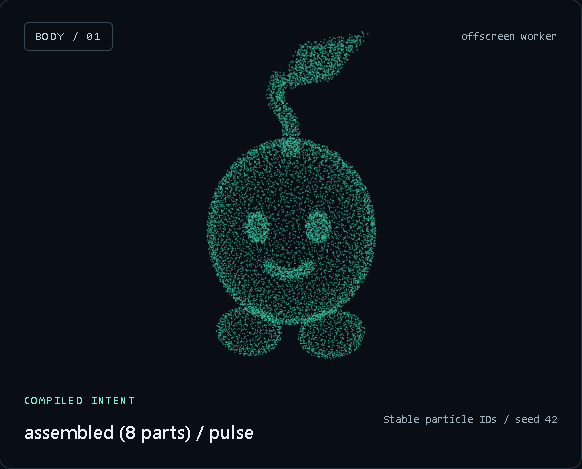
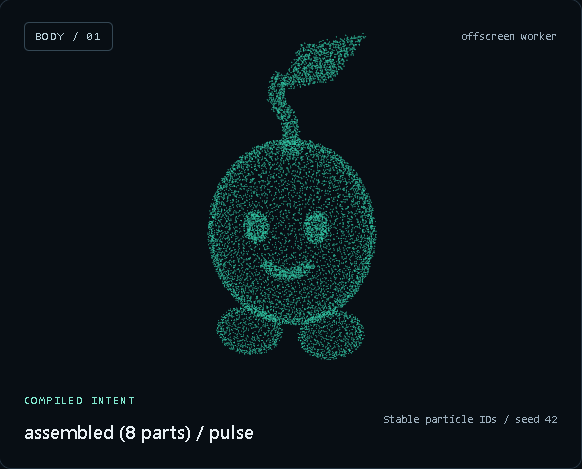
fix: use supported planner sandbox and verify live swarm expressions

Changed region(s): [[0.3402, 0.0597, 0.6495, 0.7761]]

diff --git a/docs/expression-planner.md b/docs/expression-planner.md
@@ -1,33 +1,42 @@
 # Contextual expression planner
 
-Run `fisch run` beside your existing Codex or Claude pane. Fisch keeps immediate status reflexes and runs a separate, noninteractive planner process for context-sensitive expressions. The original agent receives no prompt or tool instruction. No browser or interactive agent window is opened.
+Run `fisch run` beside your existing Codex or Claude pane. Fisch observes agent status and recent terminal context automatically; the main agent needs no Fisch tool calls. No browser or interactive agent window opens.
 
-Default backend selection follows the attached agent: `codex exec` or `claude -p`. It uses the CLI's existing authentication, with no separate API key required. This is a new background inference process, not access to the main agent's hidden reasoning or reuse of its in-memory conversation. It consumes provider usage under the CLI account and can incur charges according to that account's plan.
+The native backend follows the attached agent: a persistent `codex app-server --stdio` process, or `claude -p`. Both use existing CLI authentication. This is separate inference, not access to the main agent's hidden reasoning or in-memory conversation. Provider usage and account charges still apply. An external API is optional.
 
-## Data and timing
+## Context and timing
 
-Fisch reads up to 32 recent unwrapped terminal lines from the selected agent pane, clips the cleaned excerpt to 6,000 characters, and includes the current activity status. It does not read transcript files or another pane. Common credential patterns are redacted, but arbitrary terminal output can still contain sensitive data. Context is sent through process stdin, not command arguments, and is not written by Fisch to logs or conversation files. CLI/provider behavior and retention policies still apply.
+Fisch reads up to 32 recent unwrapped lines from the selected agent pane, clipped to 6,000 characters. Common credentials are redacted, but arbitrary terminal output can contain sensitive data. Context travels through process stdin rather than command arguments. Fisch does not save these excerpts to conversation files; CLI/provider retention policies still apply.
 
-Context is sampled at most every two seconds. Unchanged context creates no model call. Native planning also waits for a two-second quiet context window; changing terminal clocks are filtered. Native planner requests are spaced at least 30 seconds apart and time out after 45 seconds. The visible body continues rendering while inference runs. A status or captured context change aborts obsolete in-flight inference and queues the latest context; stale results cannot overwrite the current expression. Ordinary terminal text updates do not reset an already admitted plan. A real agent status change still cancels its motion and applies the new status reflex immediately. During working, completion of a plan does not force another model request.
+Context is sampled at most every two seconds. Native planning uses a 750 ms quiet window, at least eight seconds between requests and a 45-second deadline. Terminal updates coalesce into the latest queued context instead of repeatedly killing inference. Working-to-idle/done transitions accept the same turn's pending result. New work, interruption and manual control invalidate obsolete jobs. Rendering continues throughout.
 
-The model returns a bounded JSON expression: at most four sequential beats, each containing up to three parallel morph/assembly/flow/shape-quality primitives. Beat durations are 200–1,500 ms. Shapes and fields come from the shared capability manifest. A small planner guard and the existing compiler validate the result before admission. Invalid JSON, conflicting properties, refusal, missing CLI/login and timeouts preserve the reflex layer. Plans illustrate communicative context, not evidence of private emotions.
+Codex keeps one process warm with fresh ephemeral threads. Generation still takes seconds: a live signed-in call with the current schema took about 13 seconds. Local repertoire playback supplies immediate motion while the model runs. Keeping a process warm does not guarantee faster generation.
+
+## Geometry and repertoire
+
+Model output contains a short concept label and a bounded AST with at least one assembly. Up to four sequential beats may each contain three parallel primitives, lasting 200–1,500 ms per beat. The prompt asks for coherent silhouettes, independent part motion and concepts different from recent history. Schema guards and the compiler reject invalid geometry or property conflicts. Failure preserves the current body or bootstrap reflex. See [swarm geometry](swarm-geometry.md).
+
+Up to eight distinct model-authored compositions are retained locally. Idle/done rotates them every 12 seconds; working rotates them every 18 seconds. These are local engine submissions, not fresh AI decisions. Ordinary working/idle transitions preserve geometry and adjust brightness instead of resetting to sphere/cloud/wall. An empty repertoire uses status reflexes until the first valid assembly arrives.
+
+The ignored `.runtime/repertoire.json` stores bounded geometry ASTs and concept labels, without terminal excerpts or credentials. Restarting restores these forms immediately. Set `FISCH_REPERTOIRE_CACHE=off` to keep only an in-memory repertoire. Geometry fingerprints deduplicate near-identical forms; semantic originality is not guaranteed.
+
+Unchanged idle/done context becomes eligible for a fresh model plan after 60 seconds, including after failures. This consumes provider inference while idle. Manual expressions/cancellation pause automatic activity until the next status change or ten seconds before it can resume. Closing Fisch stops inference and replay.
 
 ## Configuration
 
-No configuration is needed for native CLI planning. Optional settings are read from the checkout's ignored `.env` file, with environment variables taking precedence:
+No settings are needed for native CLI planning. Optional settings come from the checkout's ignored `.env`, with environment variables taking precedence:
 
 ```dotenv
 FISCH_PLANNER_BACKEND=codex
 # Alternatives: claude, api, off
-# Optional model override; otherwise the CLI selects its default model.
 # FISCH_PLANNER_MODEL=your-model
-# Optional executable or JavaScript CLI path, without shell arguments.
 # FISCH_PLANNER_COMMAND=/absolute/path/to/codex
+# FISCH_REPERTOIRE_CACHE=off
 ```
 
-`fisch status` includes planner backend, mode, attempts, applied plans, stale results discarded, a sanitized error code, the last admitted AST and its admission timestamp. The pane header and `bodySource` show whether the last automatic body program came from `reflex` or `planner`; admission is not a claim about how long it remained visible. `off` keeps automatic status reflexes without reading terminal context or starting an inference process. API credentials alone never switch the backend to API.
+`fisch status` reports attempts, fresh `applied` plans, discarded results, sanitized errors, the last AST/concept, repertoire size/play count and process/request counts. `bodySource` distinguishes `reflex`, `repertoire`, `planner` and manual control. Admission counters do not certify human recognition. Backend `off` retains status reflexes without reading context or starting inference. API credentials alone never select the API backend.
 
-Native Codex runs ephemeral, outside the repository in a temporary scratch directory, with user configuration ignored but its normal authentication retained. It uses read-only sandboxing and disables shell, apps, plugins, hooks, multi-agent, browser/computer and image features. It does not inherit custom user model providers from `config.toml`. Claude runs without built-in tools, external MCP configurations or session persistence and does not load settings sources. Neither path relaxes approvals or edits the main agent's configuration. These flags require compatible recent CLI versions; unsupported versions fall back to status reflexes.
+Codex runs outside the repository in a temporary scratch directory, with normal authentication/configuration retained. Configured MCP servers, shell, apps, plugins, hooks, multi-agent, browser/computer and image features are disabled. Threads are ephemeral, read-only and receive planner instructions instead of repository instructions. See the official [Codex app-server protocol](https://developers.openai.com/codex/app-server). Claude remains a separate tool-free, nonpersistent process per request, without external MCP configuration or settings sources. Neither path edits the main agent's configuration. Compatible recent CLI versions are required; failed inference leaves local animation running.
 
 ## Optional API backend
 
@@ -38,20 +47,8 @@ FISCH_PLANNER_URL=https://api.openai.com/v1/responses
 OPENAI_API_KEY=your-private-key
 ```
 
-Keep keys out of chat and Git. The optional transport uses the [Responses structured-output format](https://developers.openai.com/api/docs/guides/structured-outputs), with `store: false`. A compatible local Responses endpoint may use HTTP on localhost and omit a key. Other endpoints require HTTPS. `FISCH_PLANNER_API_KEY` supplies credentials for a custom endpoint; the OpenAI key is never automatically forwarded to another hostname. API requests have a four-second deadline and ten-second minimum spacing.
+Keep keys out of chat and Git. The transport uses [Responses structured output](https://developers.openai.com/api/docs/guides/structured-outputs) with `store: false`, a four-second deadline and five-second minimum spacing. Localhost endpoints may use HTTP without a key; other endpoints require HTTPS. `FISCH_PLANNER_API_KEY` supplies custom endpoint credentials. OpenAI credentials are never automatically forwarded to another hostname.
 
 ## Verification and limits
 
-Automated tests cover context throttling/redaction, stale-result rejection after status or context changes, timeouts, invalid plans, real child-process stdin/cancellation, CLI flags and bounded HTTP responses. A live signed-in Codex process returned a three-beat plan accepted by the compiler in about 14 seconds. Live Claude inference and human assessment of contextual expressiveness remain unverified. Terminal context is lossy and includes tool output; this first implementation does not provide typed user-message or work-phase events. Braille also cannot establish subtle perceptual differences.
-
-## Idle expression lifecycle
-
-Both Herdr `idle` and `done` mean the agent is waiting. In these states the planner can generate ambient expressions even when the terminal excerpt is unchanged or empty. After an inference finishes, unchanged idle context becomes eligible for a fresh plan after 60 seconds; normal backend spacing and the context debounce still apply. Failures also wait 60 seconds before an idle retry. This uses provider inference while the agent is idle, typically no more than about one refresh per minute for unchanged context.
-
-Between model requests Fisch replays the current admitted idle plan every 12 seconds, leaving quiet pauses between short gestures. These replays are local engine submissions, not new AI decisions. `idleCycles` counts scheduled idle refreshes, `idleReplays` counts admitted local replays, and `applied` counts fresh model plans. `lastReplayAt` is separate from `lastAppliedAt`.
-
-Idle instructions ask for breathing, a small stretch, a curious sway or a lingering conversational tone, with gentle variation from `previousPlan`. They must not invent a new user message, work item or error. A real agent status change cancels idle motion and any stale inference immediately. A changed context invalidates the replay candidate until a fresh plan is admitted. An accepted manual expression or cancellation pauses idle refresh/replay until context or status changes; closing Fisch stops both. Setting the planner backend to `off` keeps status reflexes and creates no idle model calls.
-
-Clock-controlled regressions cover unchanged and empty idle context, `done`, refresh cadence, replay without inference, failure backoff, cancellation, close and resuming work. A real signed-in Codex process also produced an accepted plan for a synthetic idle scenario; this does not certify a real idle transition or human perception.
-
-Geometry planning: `assemble` lets the model invent multipart silhouettes and per-part motion. See [swarm geometry](swarm-geometry.md) for the data model, identity rules, budgets and limitations.
+Tests cover throttling/redaction, coalescing, invalidation, timeouts, malformed plans, child-process cancellation, bounded RPC/HTTP, fresh ephemeral threads, cache restoration/deduplication and preserved geometry across working/idle transitions. Live signed-in Codex inference is verified; live Claude inference and human assessment of expressiveness remain unverified. Terminal context is lossy and includes tool output. Braille has lower detail than WebGL and cannot establish subtle perceptual differences. Plans communicate context; they are not evidence of private emotions.

diff --git a/docs/swarm-geometry.md b/docs/swarm-geometry.md
@@ -32,11 +32,13 @@ Optional per-part motion independently applies periodic translation and Euler ro
 {"pivot":[0,-0.7,0],"translate":[0,0.03,0],"rotate":[0,0,0.06],"periodMs":4000,"phase":0}
 ```
 
-Translation amplitudes are bounded to ±0.4, rotation amplitudes to ±0.6 radians, and periods to 1–10 seconds. Part motion continues after the assemble transition completes. Cancellation freezes it at the current pose. Agent status changes retain their preemption priority.
+Translation amplitudes are bounded to ±0.4, rotation amplitudes to ±0.6 radians, and periods to 1–10 seconds. Part motion continues after the assemble transition completes. Cancellation freezes it at the current pose. Ordinary working/idle status changes preserve admitted geometry when a composition repertoire is available.
 
 Keep IDs, kinds, weights and curve point counts stable between consecutive poses. Declaration order is irrelevant. The engine reuses the particle-to-part mapping for that topology. Different topologies receive a deterministic spatial Morton-order assignment. Each particle retains its identity, and interrupted transitions start at its current geometry position. Primitive/assembly transitions share this path after the first assembly.
 
-Spatial assignment is approximate, not globally optimal transport; paths can cross. There is no collision avoidance, contact physics, joint solver, arbitrary mesh loader, shader injection or generated executable code. Connected parts need consistent coordinates and pivots from the model. This is a kinematic composition system inspired by a microbot swarm, not a physical simulation.
+Both native and WebGL rendering now use target-aware boids after geometry sampling. Attraction to assigned targets dominates; mild separation, alignment and target-relative cohesion add flock motion without pulling a hand or face into a generic flock. Neighbours belong to the same part. A spatial grid limits each particle to 32 candidate checks and eight neighbours; timestep subdivision, damping and a speed cap bound long-frame behaviour. Reduced motion bypasses steering. `fisch status` exposes particle count, neighbour checks and mean target error under `swarm`.
+
+Spatial assignment is approximate, not globally optimal transport; paths can cross. Separation is visual steering, not guaranteed collision avoidance. There is no contact physics, joint solver, arbitrary mesh loader, shader injection or generated executable code. Connected parts need consistent coordinates and pivots from the model. This is a kinematic composition system inspired by a microbot swarm, not a physical simulation.
 
 ## Planner and verification
 
